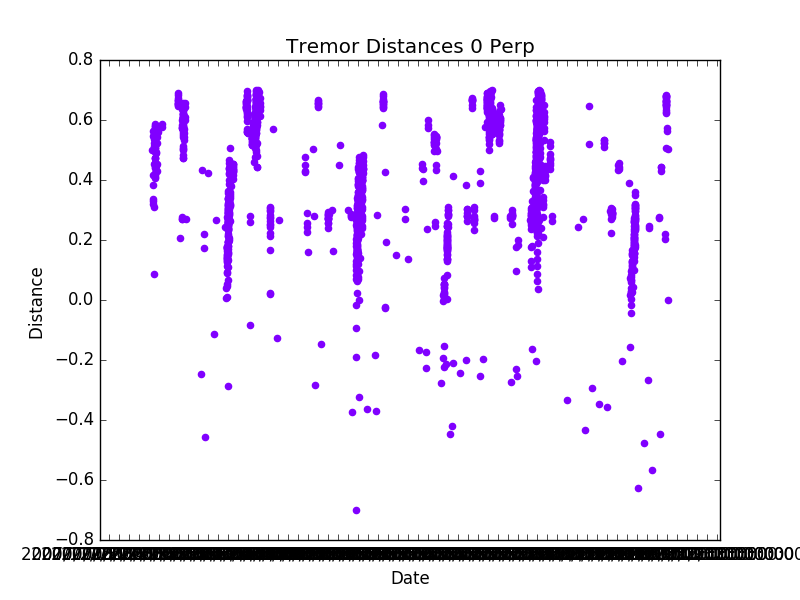
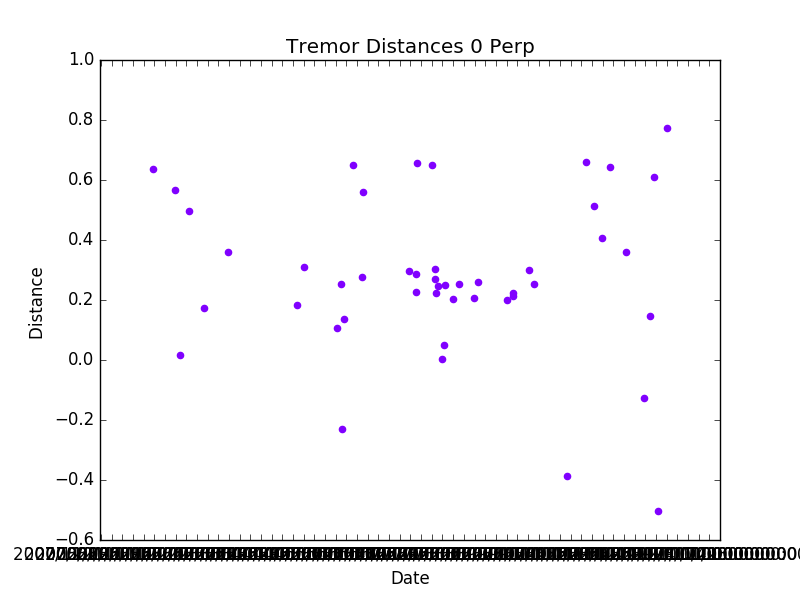
Updated detection and now I plot all the migrations found from each zone for quality control.

diff --git a/Tremors/modules/processing.py b/Tremors/modules/processing.py
@@ -98,14 +98,14 @@ def createGeoLines(segments, sections, data):
     xmin = min(data["longitudes"])
     xmax = max(data["longitudes"])
     xd = np.linspace(xmin, xmax, segments + 1)
-    yinterp = interp1d(data["longitudes"], data["latitudes"])
+    yfit = poly1d(np.polyfit(data["longitudes"], data["latitudes"], 6))
     geoLines = []
     for x1 in xd:
         if x1 != xd[-1]:
             x2 = xd[np.where(xd==x1)[0][0] + 1]
             xs = np.linspace(x1, x2, sections)
-            y1 = yinterp(x1).tolist()
-            y2 = yinterp(x2).tolist()
+            y1 = yfit(x1).tolist()
+            y2 = yfit(x2).tolist()
             line = analysis.Line(x1, y1, x2, y2)
             for xSection1 in xs:
                 if xSection1 != xs[-1]:
@@ -207,8 +207,9 @@ def processTremorData(data, geoLines, perpGeoLines):
     return procData
     
 def findMigrations(procData, dataset, windowSize, zone):
-    residualThreshold = .1
-    eventThreshold = 3
+    residualThreshold = .05
+    eventThreshold = 5
+    fixedWindowSize = 10
 
     migrationDistances = []
     migrationDates = []
@@ -231,31 +232,22 @@ def findMigrations(procData, dataset, windowSize, zone):
         window = {"dates":[], "distances":[]}
         index = dates.index(date)
 
-        for x in range(0, windowSize):
-            window["dates"] += [dates[index]]
-            window["distances"] += [distances[index]]
+        for x in range(0, fixedWindowSize):
+            if dates[index] - date < dt.timedelta(days = windowSize):
+                window["dates"] += [dates[index]]
+                window["distances"] += [distances[index]]
+            else:
+                continue
 
             if dates[index + 1] == dates[-1]:
                 break
             else:  
                 index += 1
-
-
-        #while abs(date - currentDate) < dt.timedelta(windowSize):
-
-        #    window["dates"] += [currentDate]
-        #    window["distances"] += [distances[index]]
-
-        #    if dates[index + 1] == dates[-1]:
-        #        break
-        #    else:
-        #        index += 1
-        #        currentDate = dates[index]
             
         fit = np.polyfit([x.timestamp() for x in window["dates"]], window["distances"], 1, full=True)
         residual = fit[1]
 
-        if residual < residualThreshold:
+        if residual < residualThreshold and len(window["dates"]) == fixedWindowSize:
             i = dates.index(date)
 
             migrationDistances += [distances[i]]
@@ -263,9 +255,20 @@ def findMigrations(procData, dataset, windowSize, zone):
             migrationLatitudes += [latitudes[i]]
             migrationLongitudes += [longitudes[i]]
             migrationMagnitudes += [magnitudes[i]]
-        elif residual >= residualThreshold and len(migrationDistances) > eventThreshold:
+
+        elif (residual >= residualThreshold and len(migrationDistances) > eventThreshold):
             migrations += [Migration(migrationDates, migrationDistances, migrationLatitudes, migrationLongitudes, migrationMagnitudes)]
             
+            migrationDistances = []
+            migrationDates = []
+            migrationLatitudes = []
+            migrationLongitudes = []
+            migrationMagnitudes = []
+
+        else:
+            if len(migrationDistances) > eventThreshold:
+                migrations += [Migration(migrationDates, migrationDistances, migrationLatitudes, migrationLongitudes, migrationMagnitudes)]
+
             migrationDistances = []
             migrationDates = []
             migrationLatitudes = []

diff --git a/Tremors/Tremors.py b/Tremors/Tremors.py
@@ -4,7 +4,7 @@ import modules.processing as processing
 import datetime as dt
 
 pattern = "%Y/%m/%d %H:%M:%S"
-segments = 3
+segments = 7
 sections = 3
 windowSize = 10
 
@@ -24,7 +24,9 @@ for i in range(0, zones):
     print("Finding migrations in zone " + str(i))
     migrations = processing.findMigrations(procData, "perpendicular", windowSize, i)
 
-    plots.plotMigrations(migrations, "Tremor Migrations " + str(i))
+    plots.plotMigrations(migrations, "Tremor Migrations Zone " + str(i))
+    for migration in migrations:
+        plots.plotMigrations([migration], "Zone " + str(i) + " Migration " + str(migrations.index(migration)))
 
     plots.plotZone(procData["perpendicular"]["dates"][i], procData["perpendicular"]["distances"][i], 
         procData["perpendicular"]["magnitudes"][i], zones, i, "Tremor Distances " + str(i) + " Perp")
